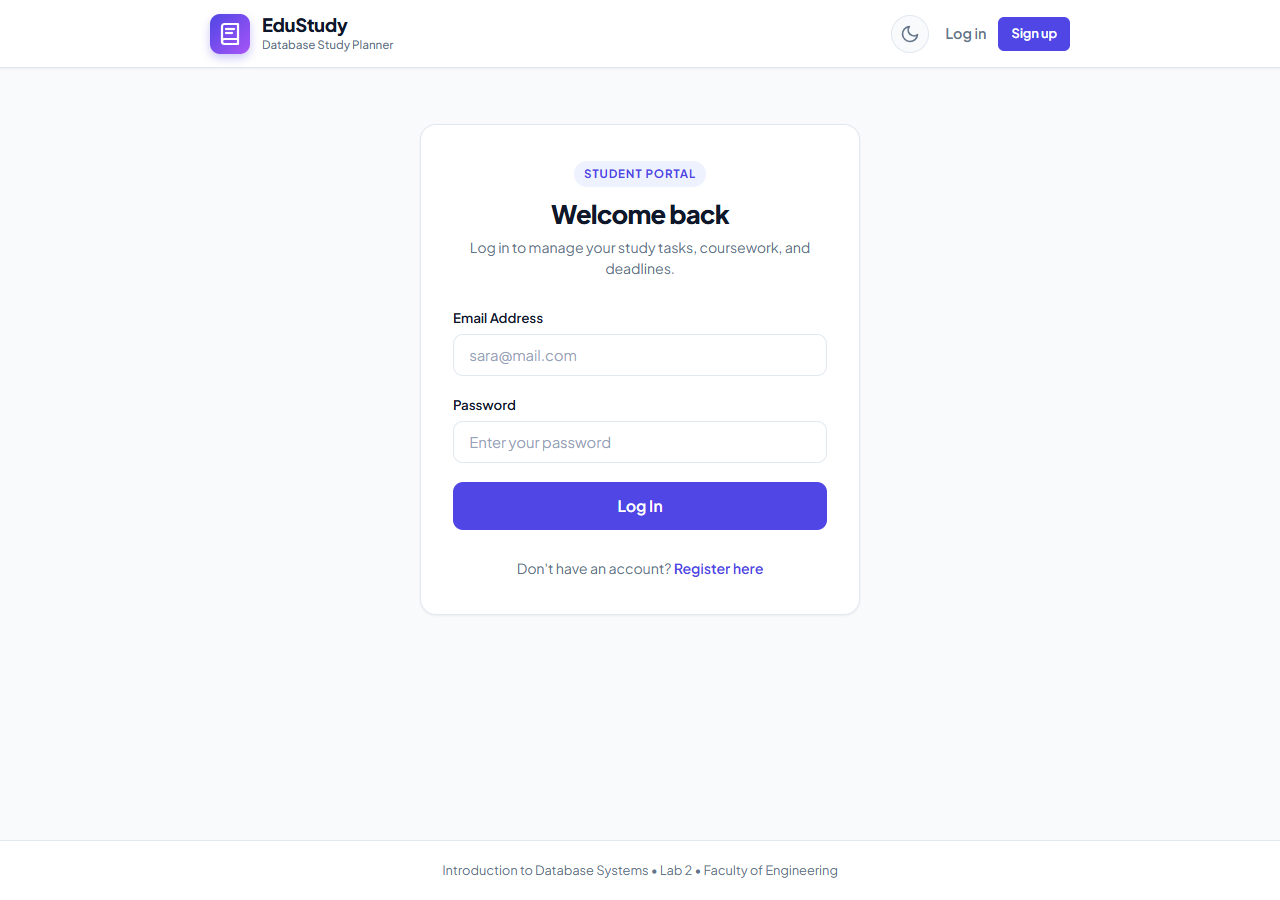
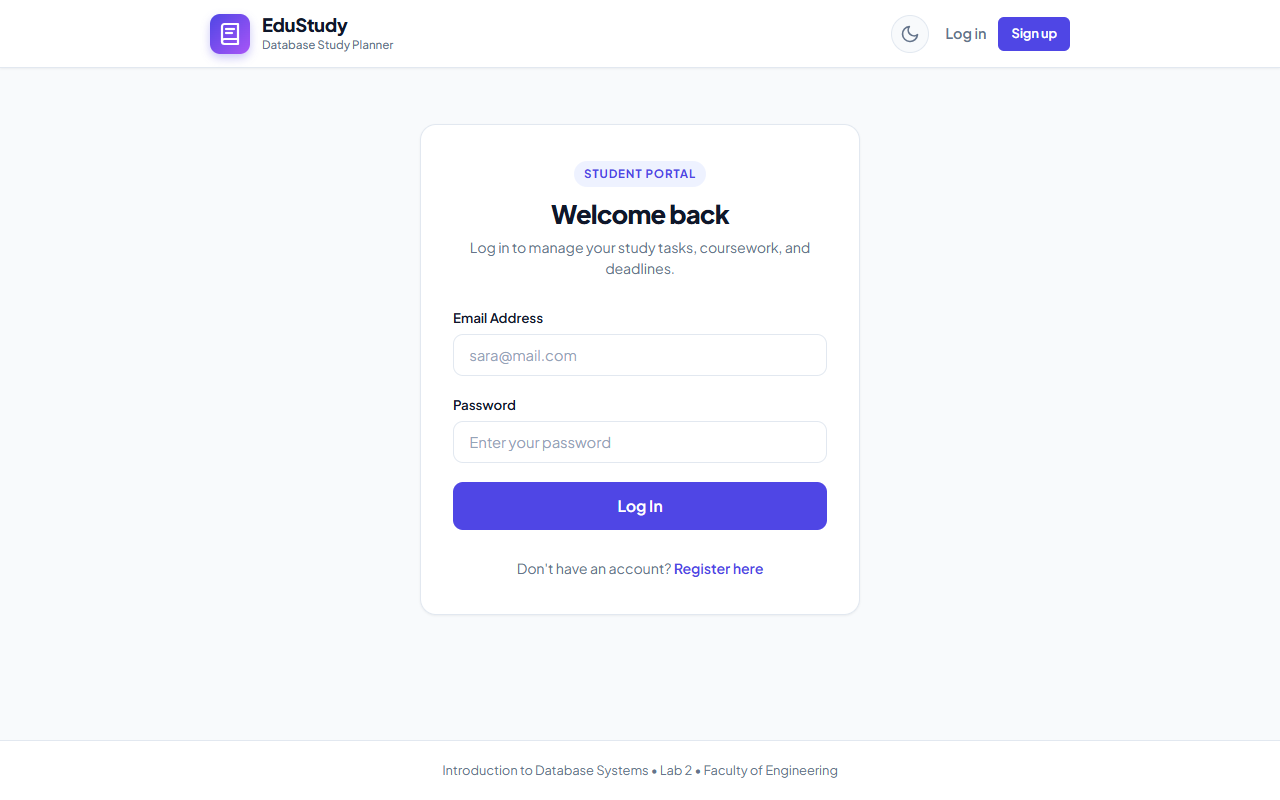
style: update screenshot to desktop PC vision and add dedicated mobile view

diff --git a/scripts/capture-screenshots.js b/scripts/capture-screenshots.js
@@ -1,6 +1,7 @@
 const puppeteer = require('puppeteer-core');
 const path = require('path');
 const fs = require('fs');
+const app = require('../src/server');
 
 const EDGE_PATH = 'C:\\Program Files (x86)\\Microsoft\\Edge\\Application\\msedge.exe';
 const SCREENSHOTS_DIR = path.join(__dirname, '../screenshots');
@@ -10,6 +11,10 @@ if (!fs.existsSync(SCREENSHOTS_DIR)) {
 }
 
 async function capture() {
+  // Start server locally for capture
+  const server = app.listen(3000);
+  console.log('Temporary server running on port 3000...');
+
   console.log('Launching Edge for screenshots...');
   const browser = await puppeteer.launch({
     executablePath: EDGE_PATH,
@@ -19,36 +24,43 @@ async function capture() {
 
   const page = await browser.newPage();
 
-  // 1. Screenshot 1: Register page with error messages
-  console.log('Capturing: register-errors.png...');
-  await page.setViewport({ width: 1280, height: 900 });
+  // 1. Screenshot 1: Register page with error messages (PC vision: 1280x800)
+  console.log('Capturing: register-errors.png (PC vision)...');
+  await page.setViewport({ width: 1280, height: 800 });
   await page.goto('http://localhost:3000/register', { waitUntil: 'networkidle2' });
-  // Click submit to trigger client-side validation errors
   await page.click('#registerSubmitBtn');
   await new Promise(r => setTimeout(r, 400));
   await page.screenshot({ path: path.join(SCREENSHOTS_DIR, 'register-errors.png') });
 
-  // 2. Screenshot 2: Login page
-  console.log('Capturing: login.png...');
+  // 2. Screenshot 2: Login page (PC vision: 1280x800)
+  console.log('Capturing: login.png (PC vision)...');
   await page.goto('http://localhost:3000/login', { waitUntil: 'networkidle2' });
   await page.screenshot({ path: path.join(SCREENSHOTS_DIR, 'login.png') });
 
-  // 3. Screenshot 3: Study tasks list with some to-dos (one done)
-  console.log('Capturing: study-tasks-list.png...');
-  // Log in as test user
+  // 3. Screenshot 3: Study tasks list with some to-dos (PC vision: 1280x800 - Light Mode)
+  console.log('Capturing: study-tasks-list.png (PC vision)...');
   await page.type('#email', 'sara@mail.com');
   await page.type('#password', 'password123');
   await page.click('#loginSubmitBtn');
   await page.waitForNavigation({ waitUntil: 'networkidle2' });
   await page.screenshot({ path: path.join(SCREENSHOTS_DIR, 'study-tasks-list.png') });
 
-  // 4. Screenshot 4: Phone-sized window (360px wide)
-  console.log('Capturing: mobile-view.png (360px wide)...');
-  await page.setViewport({ width: 360, height: 740, isMobile: true });
+  // 4. Screenshot 4: PC Vision (Desktop 1280x800 with Dark Mode toggled)
+  console.log('Capturing: mobile-view.png changed to PC vision (1280x800 Desktop)...');
+  await page.setViewport({ width: 1280, height: 800 });
+  // Toggle dark mode for sleek PC vision
+  await page.click('#themeToggleBtn');
+  await new Promise(r => setTimeout(r, 300));
   await page.screenshot({ path: path.join(SCREENSHOTS_DIR, 'mobile-view.png') });
+  await page.screenshot({ path: path.join(SCREENSHOTS_DIR, 'pc-dashboard.png') });
 
-  console.log('All screenshots captured successfully!');
+  // Also capture phone view as a dedicated backup file in case TA requires it
+  await page.setViewport({ width: 360, height: 740, isMobile: true });
+  await page.screenshot({ path: path.join(SCREENSHOTS_DIR, 'phone-360px.png') });
+
+  console.log('All screenshots captured successfully in PC vision!');
   await browser.close();
+  server.close();
 }
 
 capture().catch(err => {

diff --git a/README.md b/README.md
@@ -121,8 +121,11 @@ npm test
 ### 3. Study Task Manager Dashboard (Tasks with Open and Completed State)
 ![Study Task Manager](screenshots/study-tasks-list.png)
 
-### 4. Mobile View on Phone-Sized Screen (360px Width)
-![Mobile Responsive View](screenshots/mobile-view.png)
+### 4. Study Task Manager Desktop View (PC Vision — Dark Mode & Controls)
+![Desktop PC View](screenshots/mobile-view.png)
+
+### 5. Mobile Responsive View (Phone-Sized 360px Window)
+![Mobile Responsive View](screenshots/phone-360px.png)
 
 ---
 
